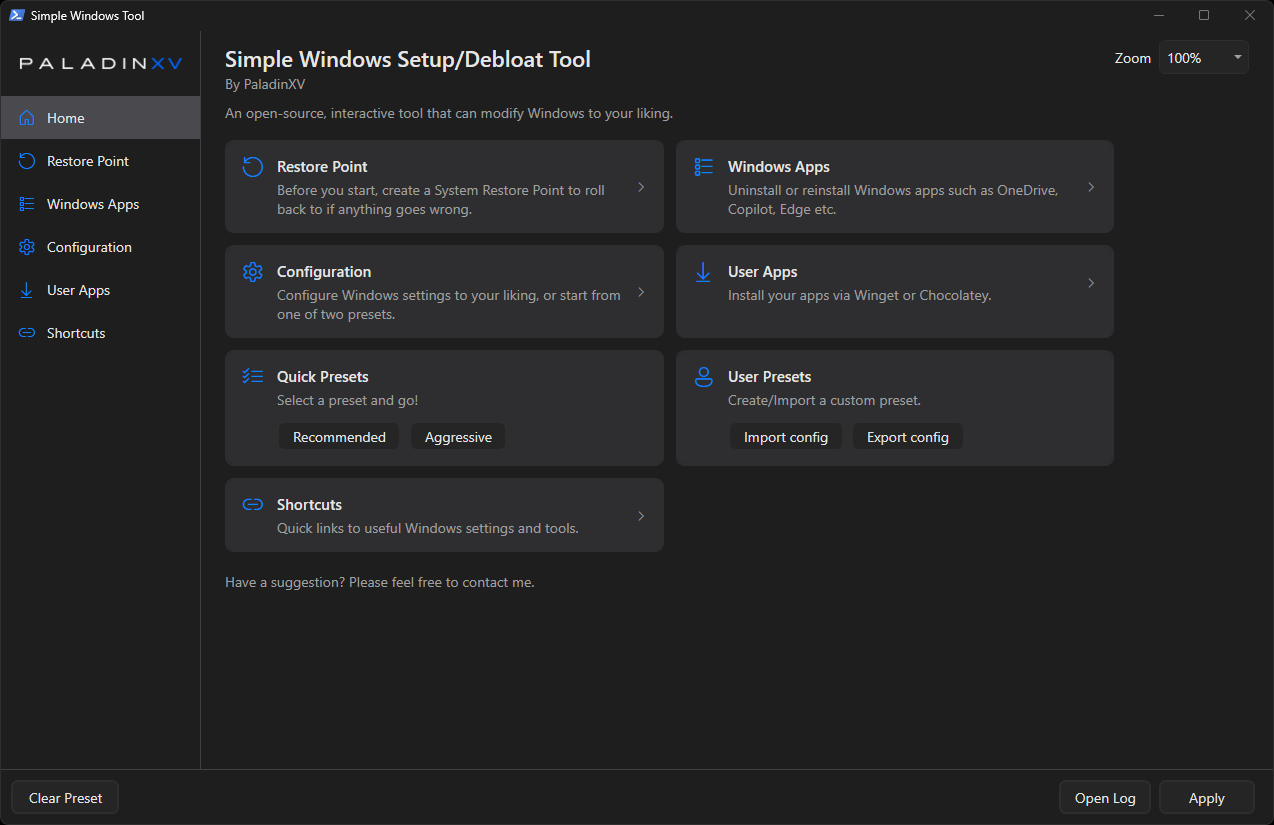
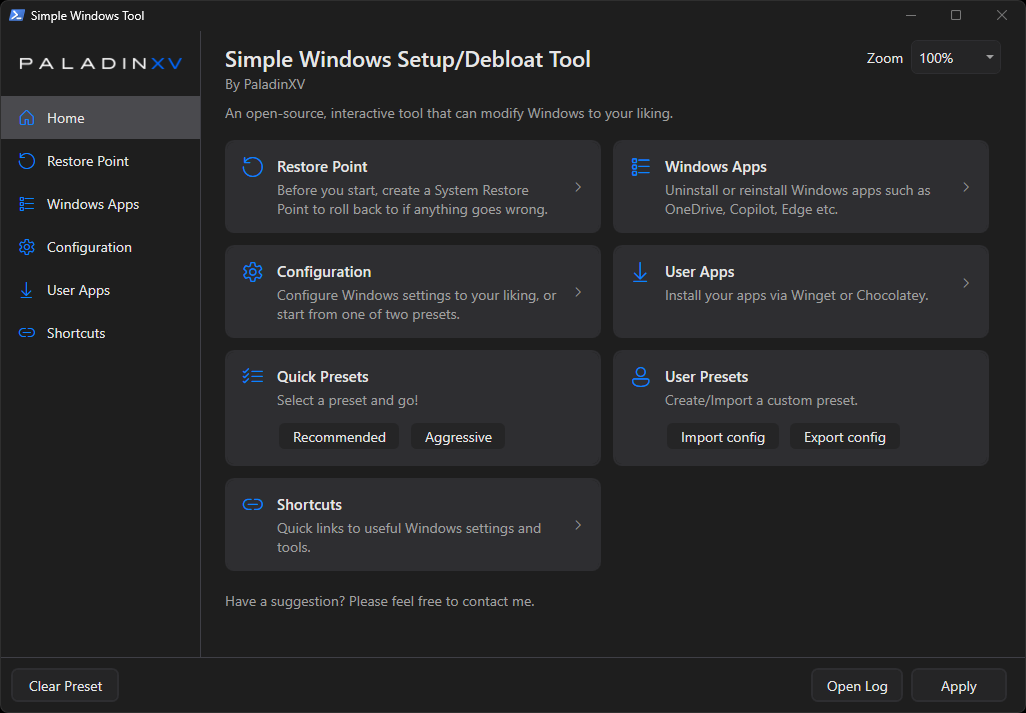
updated naming

diff --git a/UI/Layout.xaml b/UI/Layout.xaml
@@ -280,7 +280,7 @@
                     <StackPanel Margin="18,18,18,18">
                         <Image x:Name="SidebarLogo" Width="164" Stretch="Uniform" HorizontalAlignment="Left" Margin="0,8,0,8" RenderOptions.BitmapScalingMode="HighQuality" Visibility="Collapsed"/>
                         <StackPanel x:Name="SidebarTitleText">
-                            <TextBlock Text="Simple Windows Setup/Debloat Tool" Foreground="{StaticResource Text}" FontSize="16" FontWeight="Bold" TextWrapping="Wrap"/>
+                            <TextBlock Text="Simple Windows 11 Setup Tool" Foreground="{StaticResource Text}" FontSize="16" FontWeight="Bold" TextWrapping="Wrap"/>
                             <TextBlock Text="By PaladinXV" Foreground="{StaticResource SubText}" FontSize="12" Margin="0,2,0,0"/>
                         </StackPanel>
                     </StackPanel>
@@ -362,7 +362,7 @@
                             <RowDefinition Height="*"/>
                         </Grid.RowDefinitions>
                         <StackPanel Grid.Row="0" Margin="0,0,0,10">
-                            <TextBlock Text="Simple Windows Setup/Debloat Tool" Style="{StaticResource PageTitle}" FontSize="22" Margin="0"/>
+                            <TextBlock Text="Simple Windows 11 Setup Tool" Style="{StaticResource PageTitle}" FontSize="22" Margin="0"/>
                             <TextBlock Text="By PaladinXV" Foreground="{StaticResource SubText}" Margin="0,2,0,0"/>
                         </StackPanel>
                         <ScrollViewer Grid.Row="1" VerticalScrollBarVisibility="Auto">
